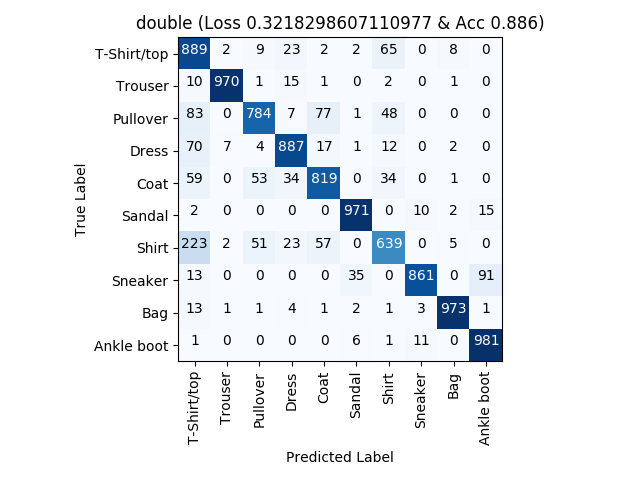
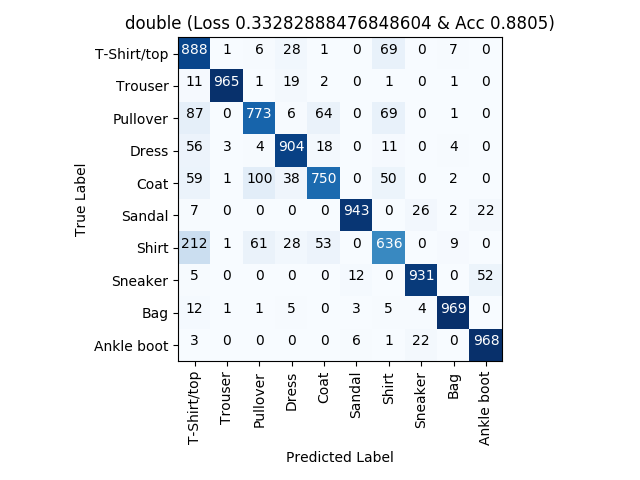
Epochs in TensorFlow
Trying to find best epochs in TensorFlow

diff --git a/models.py b/models.py
@@ -1,9 +1,3 @@
-
-import numpy as np
-
-np.set_printoptions(precision=2)
-
-
 def build_theano_model(model_params, shape):
     """ Builds basic neural network model using Theano """
     from keras.layers import Dense, Dropout, Flatten, InputLayer, MaxPooling2D
@@ -51,12 +45,10 @@ def build_double_model(model_params, shape):
     model.add(Conv2D(model_params['conv_filters'],
                      (model_params['nb_pool']*2, model_params['nb_conv']*2),
                      padding='same'))
-    model.add(MaxPooling2D(padding='same'))
     model.add(Conv2D(16, (model_params['nb_pool'], model_params['nb_conv']),
                      padding='same'))
     model.add(MaxPooling2D(padding='same'))
-    model.add(Dropout(0.2))
-    #model.add(AveragePooling2D(padding='same'))
+    model.add(Dropout(0.1))
     model.add(Flatten())
 
     model.add(Dense(128, activation=model_params['activate_1']))
@@ -69,7 +61,6 @@ def build_double_model(model_params, shape):
 
     print(model.summary())
     return model
-
 
 
 def fit_precomputed_models(model_params, x_test, y_test):

diff --git a/loader.py b/loader.py
@@ -83,8 +83,8 @@ def main(args):
         os.makedirs(args.out)
 
     # Creates range to loop filter between
-    change = 'model'
-    range = ['double']
+    change = 'epoch'
+    range = [1, 2, 3, 4, 5, 6, 8, 10, 12, 16, 20, 24]
     history_dict = {x: {'loss': 0.0, 'acc': 0.0} for x in range}
 
     # Runs Model
@@ -92,8 +92,8 @@ def main(args):
         print('Creating Model with the {} {}'.format(new, change))
         model_params = params.standard()
     
-        model = models.build_theano_model(model_params, x_train.shape)
-        #model = models.build_double_model(model_params, x_train.shape)
+        #model = models.build_theano_model(model_params, x_train.shape)
+        model = models.build_double_model(model_params, x_train.shape)
         y_pred, metrics = models.fit_model(model, model_params, 
                                            x_train, y_train, x_test, y_test)
 
